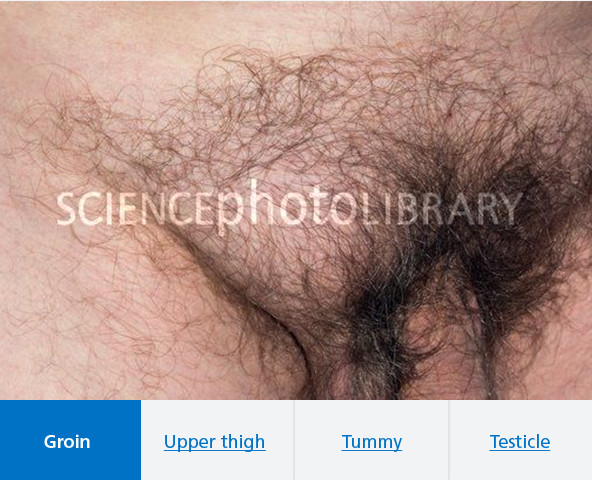
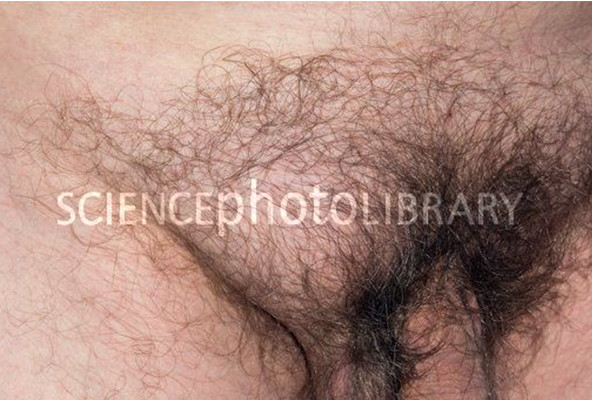
mocked up image carousel.

diff --git a/assets/scss/modules/display/_image-module.scss b/assets/scss/modules/display/_image-module.scss
@@ -45,8 +45,36 @@ img {
 
 .image-carousel {
   margin-bottom: $leading*2;
+
+  > ul {
+    background-color: $nhs-grey-light;
+    margin-top: 0px;
+    padding: 0;
+  }
+
+  > ul li {
+    background-color: rgba($nhs-grey-light, 0.5);
+    text-align: center;
+    box-sizing: border-box;
+    margin:0;
+    display: inline-block;
+    list-style-type: none;
+    width: 25%;
+    padding: $leading 0;
+    border-left:1px solid rgba($nhs-grey-mid, 0.5);
+  }
+
+  > ul li.selected {
+    background-color: $nhs-blue;
+    color: $white;
+  }
+
+  > ul li:first-child ul {
+    border: none;
+  }
 }
 
+/* hack */
 .no-mobile-image {
   visibility: hidden;
 

diff --git a/views/condition/hernia.html b/views/condition/hernia.html
@@ -38,6 +38,12 @@
         <div class="image-carousel">
             <h2 class="heading-xlarge" id="02">What does a hernia look like?</h2>
             <img src="/images/hernia/hernia-image-module.jpg" />
+            <ul>
+                <li class="selected">Groin</li><!--
+                --><li ><a href="#">Upper thigh</a></li><!--
+                --><li><a href="#">Tummy</a></li><!--
+                --><li><a href="#">Testicle</a></li>
+            </ul>
         </div>
 
         <div>
